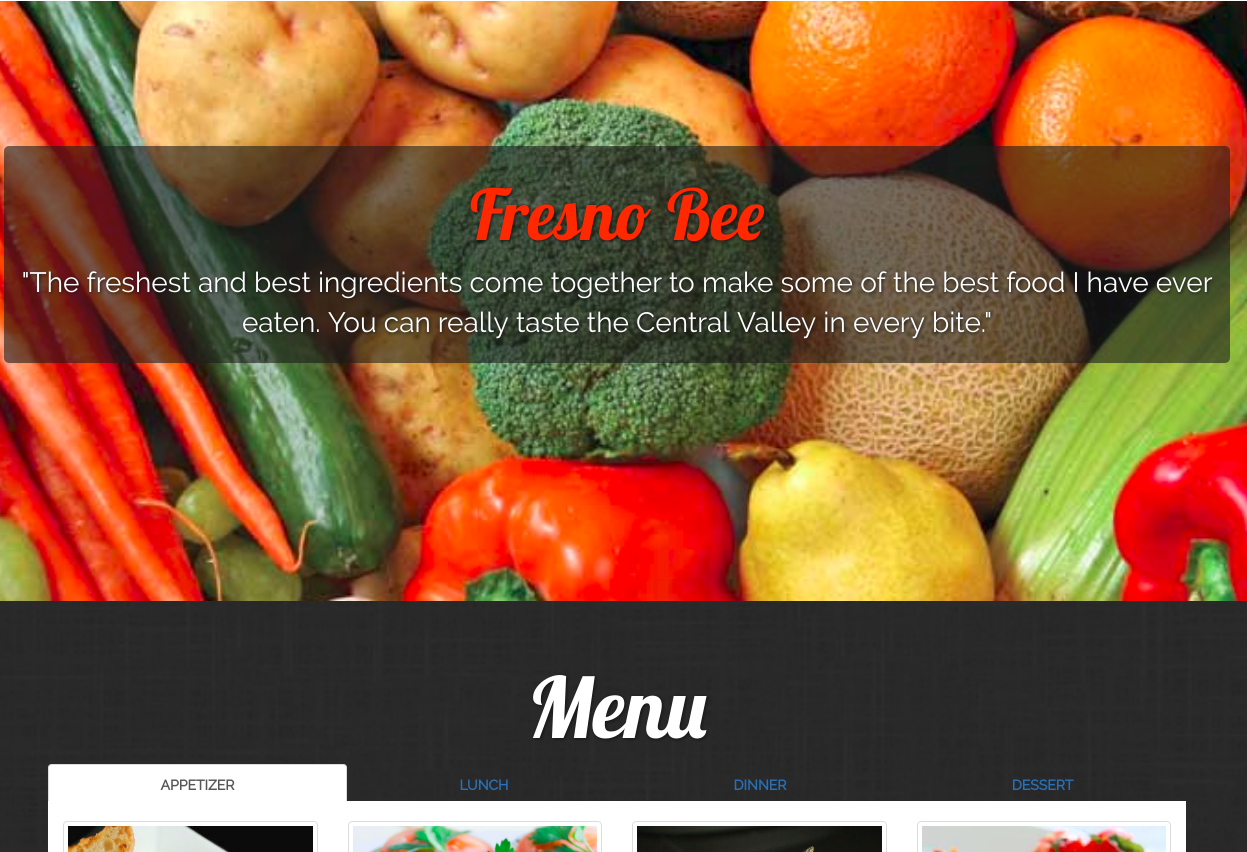
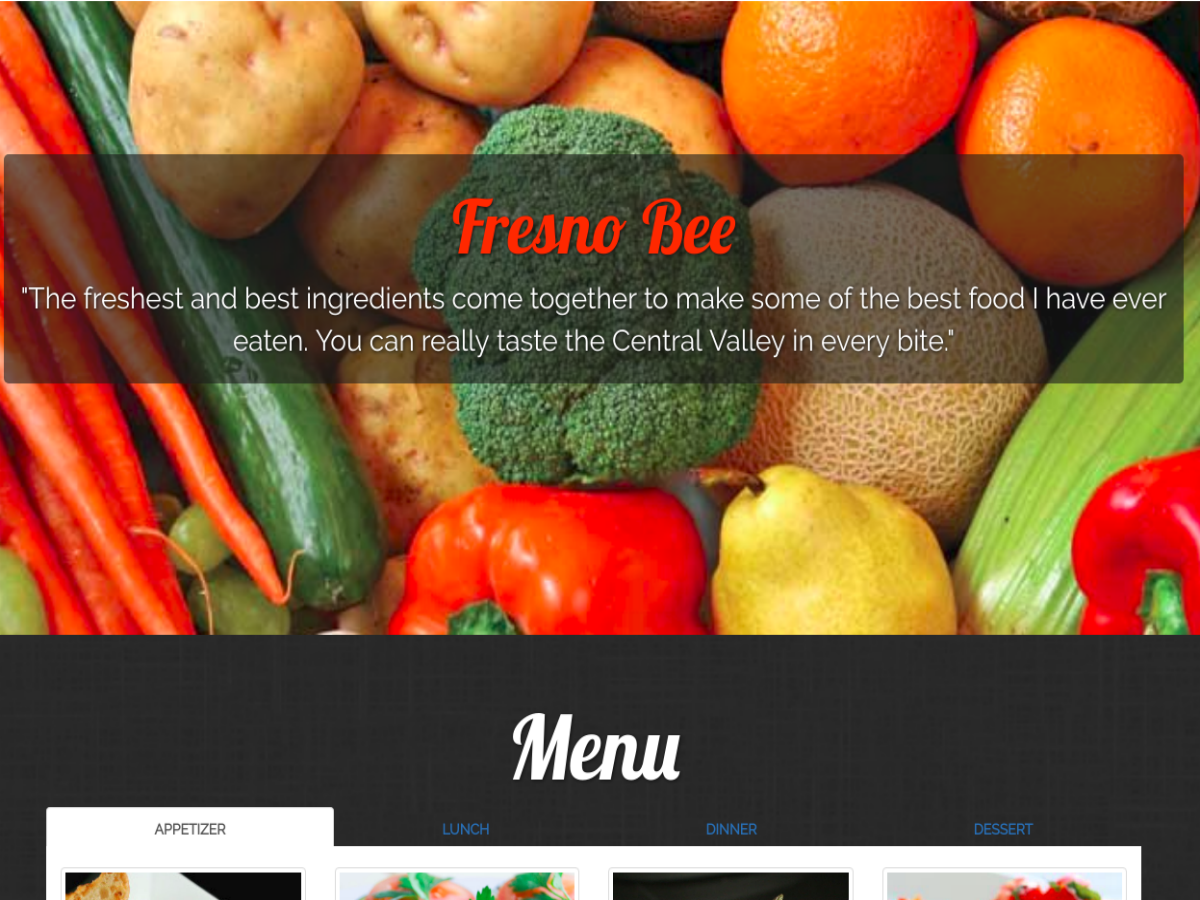
added form, imported fonts, resized imgs

Changed region(s): [[0.8017, 0.9155, 0.8633, 0.946], [0.4933, 0.3662, 0.5242, 0.3967], [0.37, 0.9155, 0.4008, 0.946]]

diff --git a/css/styles.css b/css/styles.css
@@ -1,3 +1,4 @@
+@import url('https://fonts.googleapis.com/css?family=Josefin+Sans|Yanone+Kaffeesatz');
 
 /* NAVBAR STYLES */
 .logo {
@@ -7,7 +8,7 @@
 }
 
 .navbar-default {
-  background-color: #000;
+  background-color: #2a2c37;
   border: none;
   border-radius: 0px;
   margin-bottom: 0px;
@@ -25,20 +26,21 @@
 .yosemite {
   width: 100%;
   text-align: center;
-  height: 800px;
+  min-height: 800px;
   margin: 0px auto;
   background-image: url('../img/yosemite-background.jpg');
   background-size: cover;
   background-attachment: fixed;
-  border-bottom: 3px solid #34b6ff;
 }
 
 /* ABOUT ME STYLES */
 #about_me {
-  background-color: #000;
+  background-color: #2a2c37;
   min-height: 800px;
   padding-top: 40px;
   text-align: center;
+  border-top: 3px solid #34b6ff;
+  border-bottom: 3px solid #34b6ff;
 }
 
 .abt-header {
@@ -83,13 +85,19 @@
 /* CONTACT STYLES */
 
 #contact {
-  background-color: #000;
+  background-color: #2a2c37;
   min-height: 600px;
   padding-top: 40px;
   text-align: center;
+  color: #fff;
 }
 
 .contact-header {
   font-size: 4em;
   color: #fff;
+}
+
+
+.contact-input {
+  height: 150px;
 }

diff --git a/index.html b/index.html
@@ -63,7 +63,7 @@
   <div id="projects" class="jumbotron fresno">
     <div class="container-fluid">
       <div class="herotext text-center">
-        <h1>Here are some projects I've worked on so far:</h1>
+        <h1>Some projects I've worked on so far:</h1>
       </div>
       <div class="projects-container">
         <div class="project-box col-xs-12 col-sm-4">
@@ -92,7 +92,19 @@
   <div id="contact">
     <div class="container-fluid">
       <h1 class="contact-header">Contact Me</h1>
-
+      <h3> Send me a message! </h3>
+      <form class="contact-form col-sm-6 col-sm-offset-3">
+        <div class="form-group">
+          <input class="form-control" type="text" placeholder="your name">
+        </div>
+        <div class="form-group">
+          <input class="form-control" type="email" placeholder="your email">
+        </div>
+        <div class="form-group">
+          <input class="contact-input form-control" type="text" placeholder="your message">
+        </div>
+        <button type="submit" class="btn btn-default center-block">Submit</button>
+      </form>
     </div>
   </div>
 
